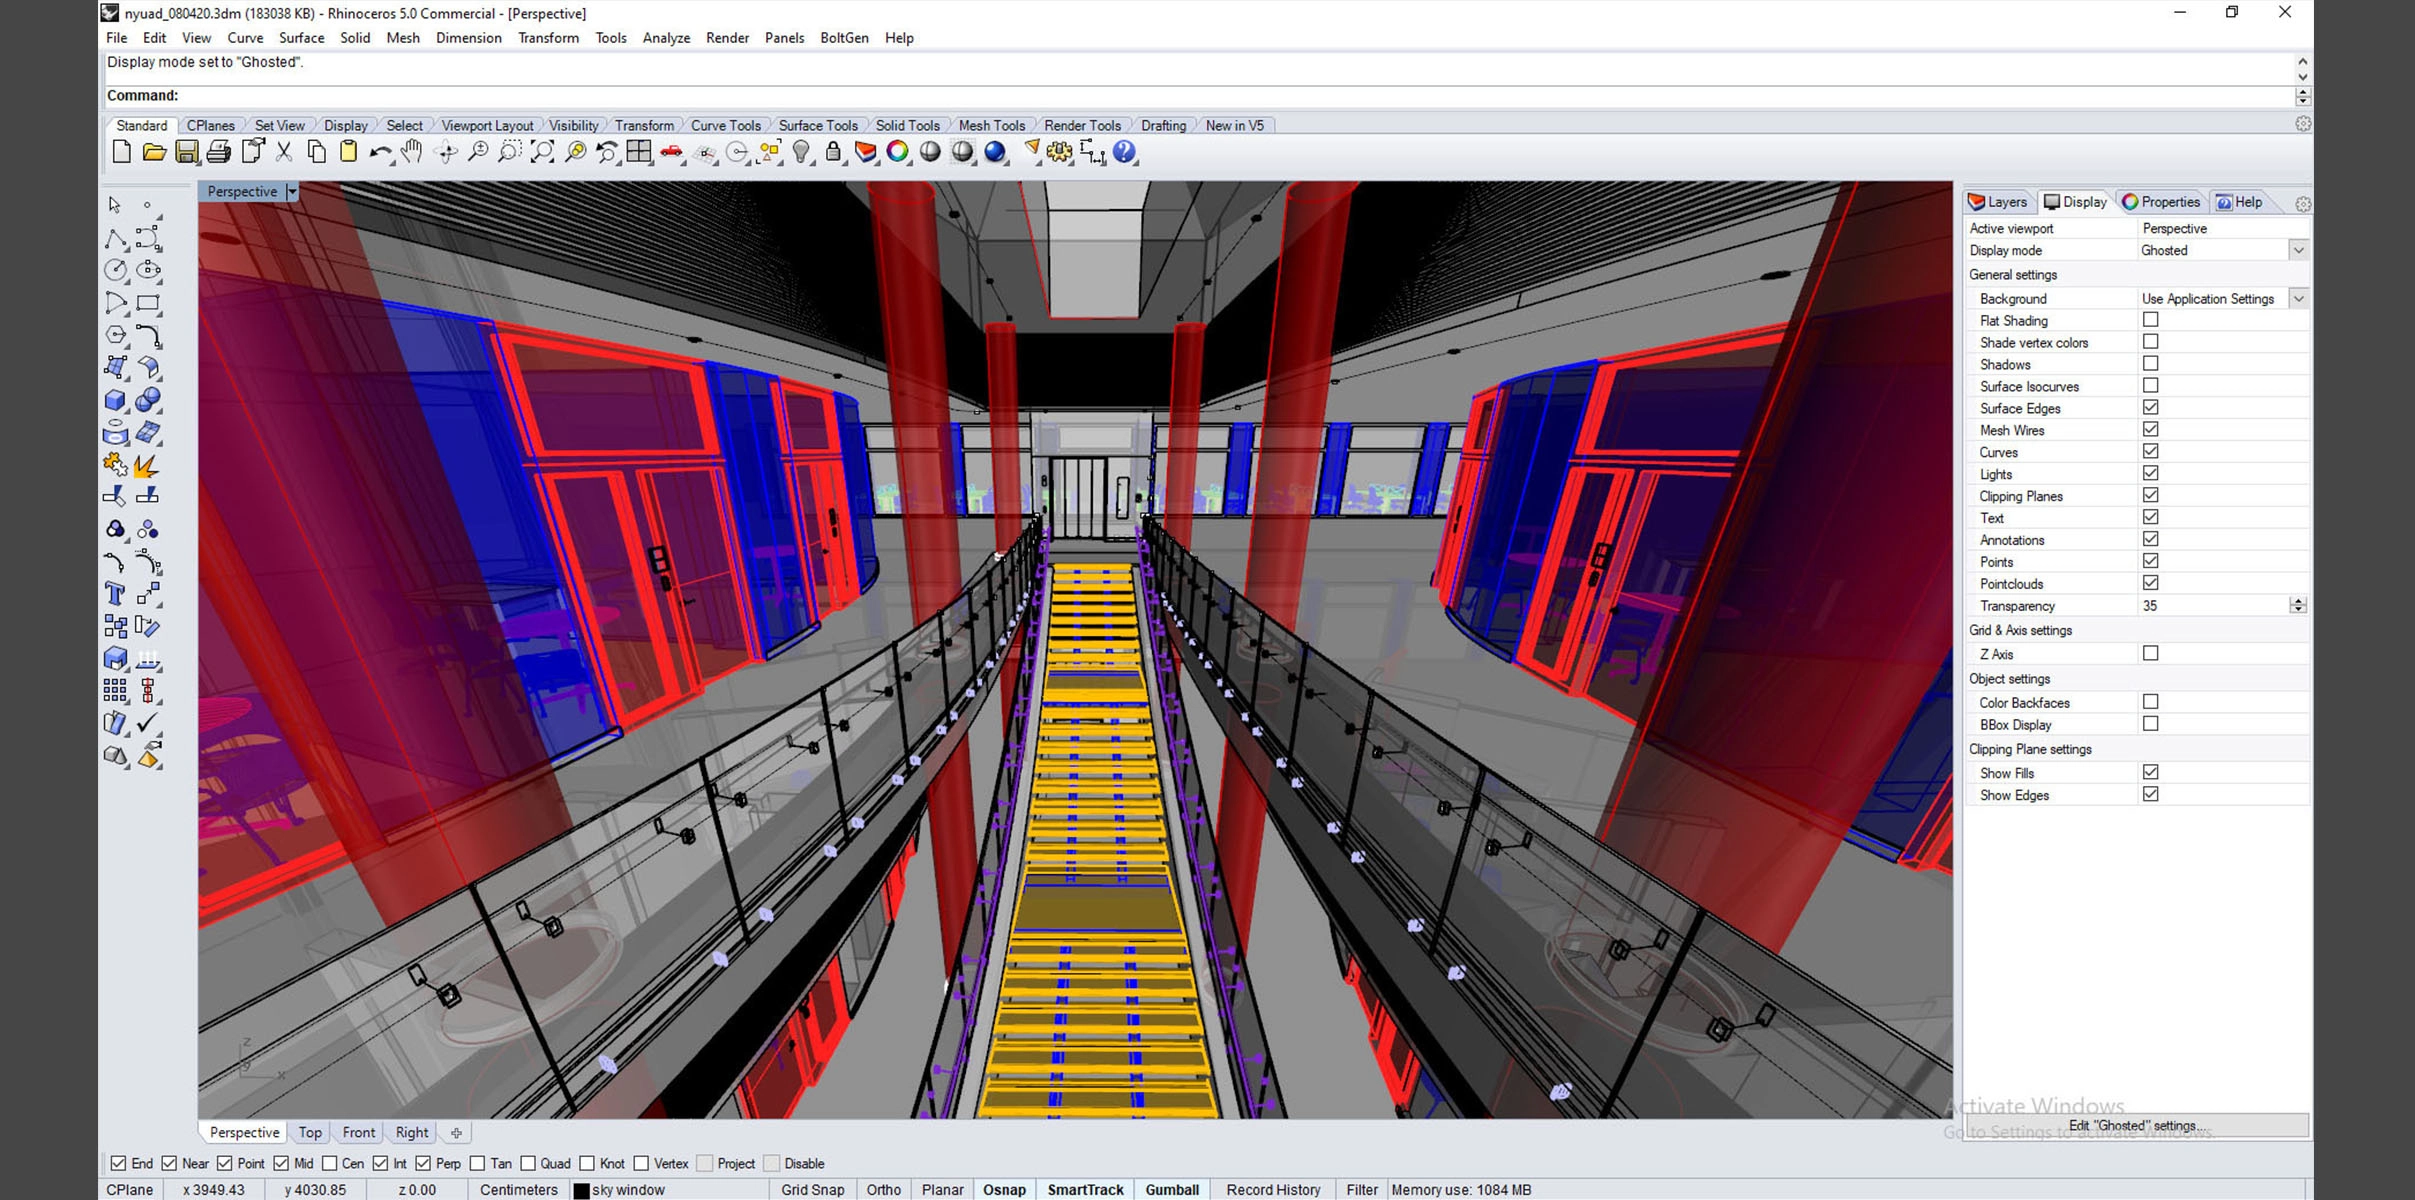
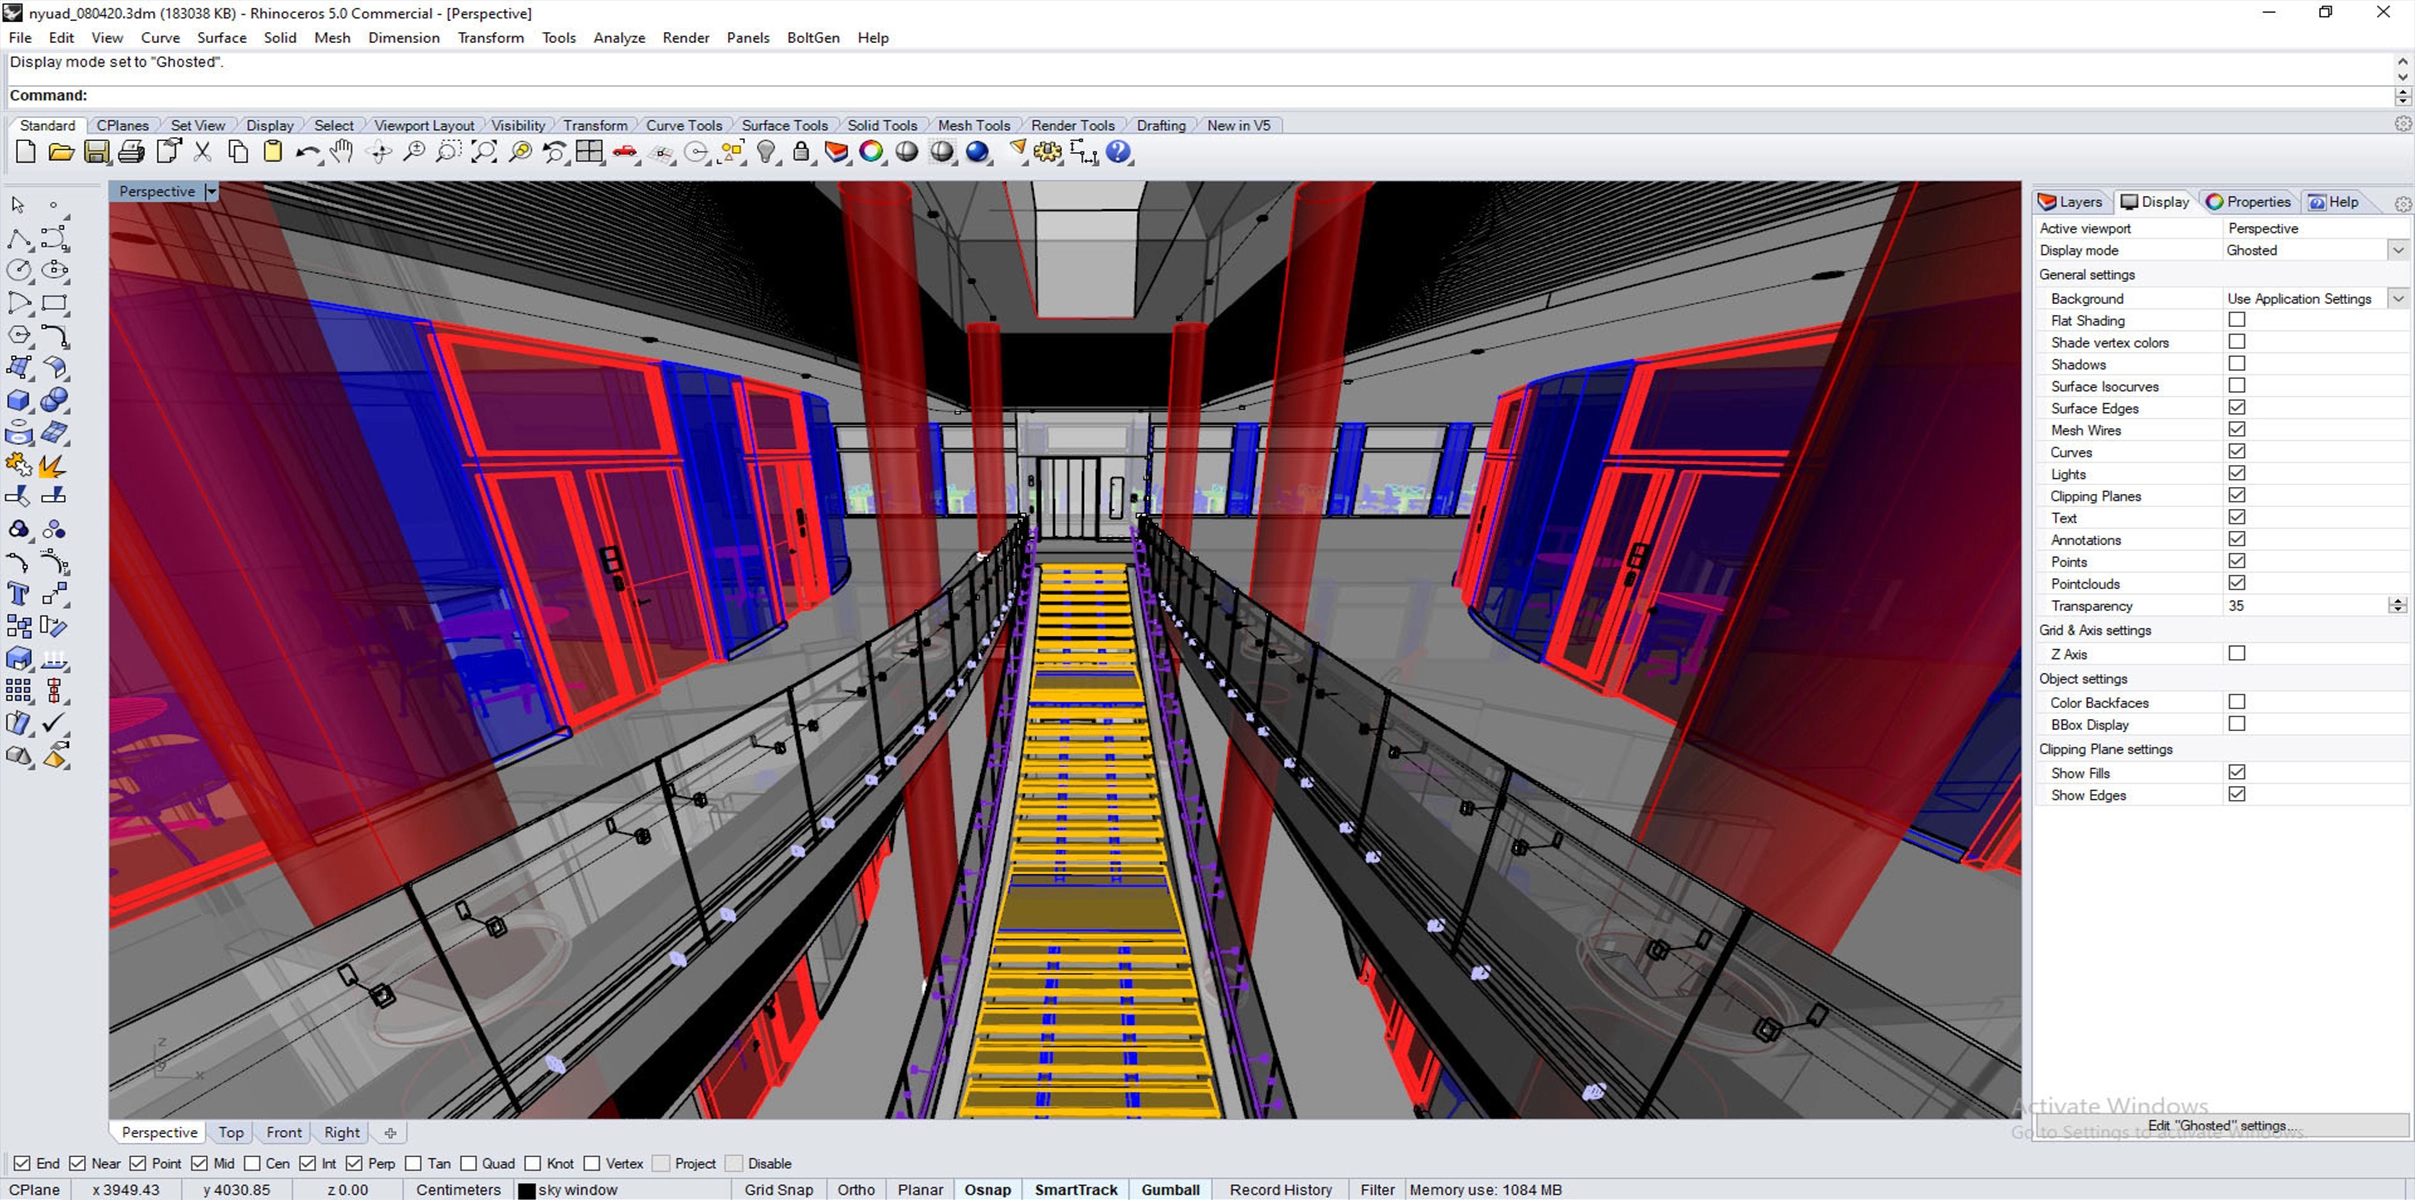
update

diff --git a/index.html b/index.html
@@ -362,6 +362,8 @@
             <div class="img-wrapper wide"><img src="images/engineer2.webp" loading="lazy" onclick="openLightbox(this)"></div>
             <div class="img-wrapper wide"><img src="images/engineer3.webp" loading="lazy" onclick="openLightbox(this)"></div>
             <div class="img-wrapper wide"><img src="images/engineer4.webp" loading="lazy" onclick="openLightbox(this)"></div>
+            <div class="img-wrapper wide"><img src="images/engineer5.webp" loading="lazy" onclick="openLightbox(this)"></div>
+            <div class="img-wrapper wide"><img src="images/engineer6.webp" loading="lazy" onclick="openLightbox(this)"></div>
         </div>
         <div class="project-desc-container">
             <p class="project-desc" id="nyuText">Comprehensive modeling of all architectural spaces within the Engineering Building at New York University Abu Dhabi for a virtual reality (VR) and augmented reality (AR) art installation. The work involved producing a fully spatially accurate digital reconstruction of the building, optimized for immersive AR/VR applications and interactive narrative environments. This project was developed under the Narrative Technologies and Spatial Installations Lab, focusing on the intersection of architectural visualization, immersive media, and spatial storytelling.</p>
